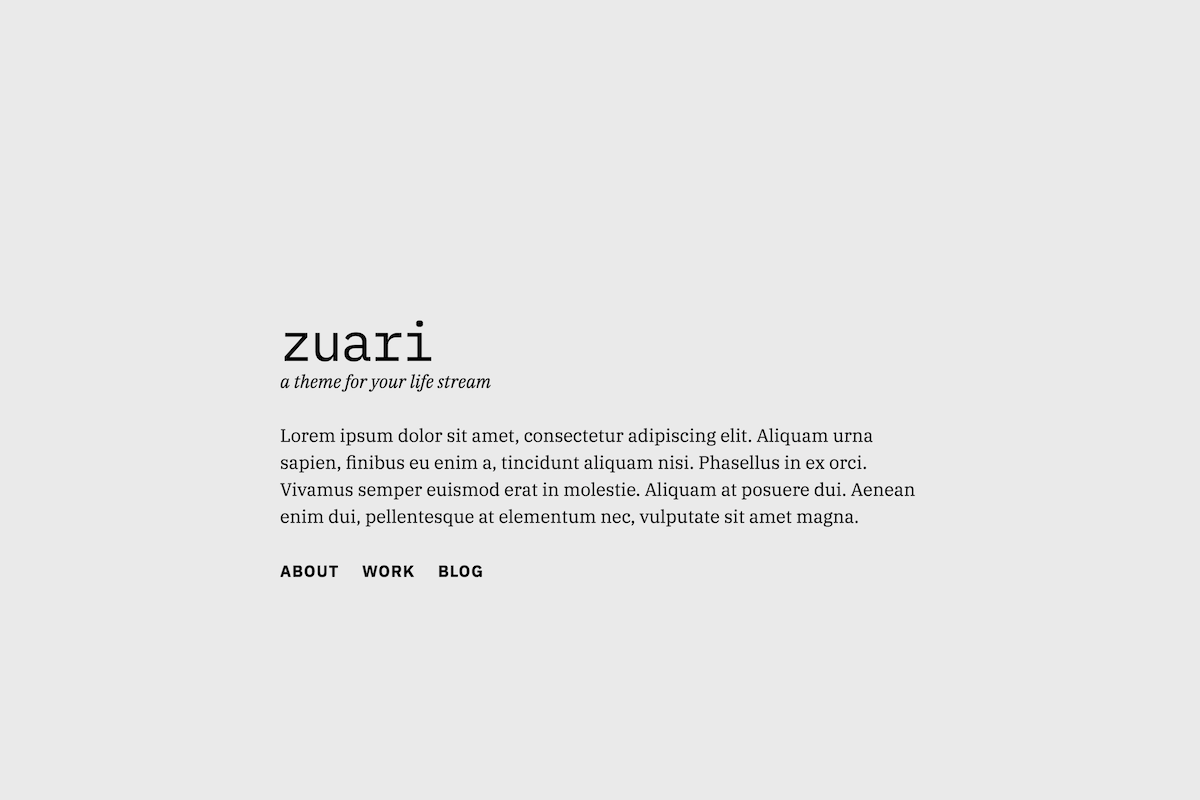
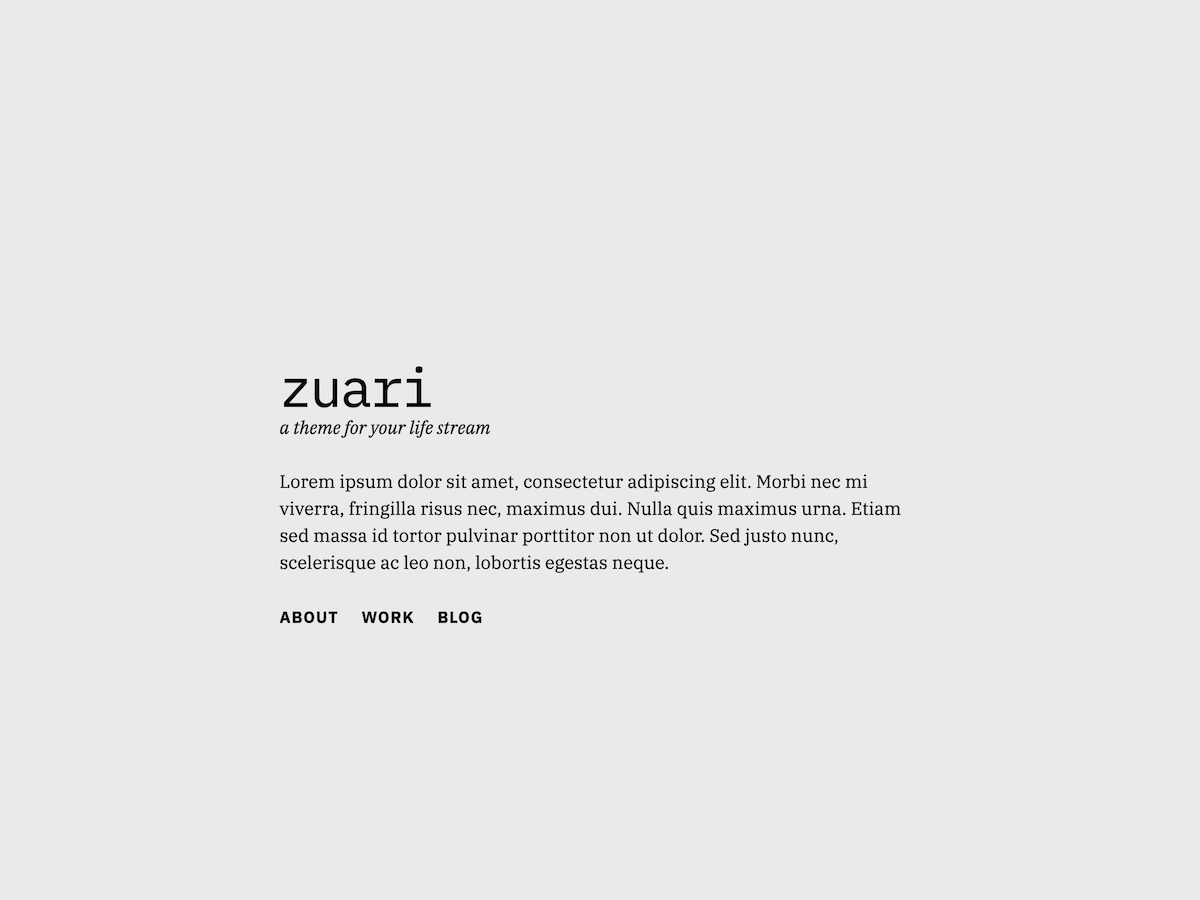
fix: changes after review
Changes after @rabmalin's review
https://themes.trac.wordpress.org/ticket/69425#comment:9

* Updated screenshot size
* Removed
** languages directory
** layout directory
** rtl.css
* Updated readme.txt to include PHP version
* Moved wp_body_open back-compat to functions.php

Also bumped the version number.

Changed region(s): [[0.2158, 0.5312, 0.7708, 0.7188], [0.2158, 0.4062, 0.4008, 0.5]]

diff --git a/style.scss b/style.scss
@@ -4,7 +4,7 @@ Theme URI: https://github.com/prtksxna/zuari
 Author: Prateek Saxena
 Author URI: http://prtksxna.com
 Description: A stream of your life
-Version: 1.0.0
+Version: 1.0.1
 License: GNU General Public License v2 or later
 License URI: LICENSE
 Text Domain: zuari

diff --git a/functions.php b/functions.php
@@ -171,6 +171,15 @@ function zuari_scripts() {
 add_action( 'wp_enqueue_scripts', 'zuari_scripts' );
 
 /**
+ * wp_body_open back-compat
+ */
+if ( ! function_exists( 'wp_body_open' ) ) {
+	function wp_body_open() {
+		do_action( 'wp_body_open' );
+	}
+}
+
+/**
  * Implement the Custom Header feature.
  */
 require get_template_directory() . '/inc/custom-header.php';

diff --git a/header.php b/header.php
@@ -21,12 +21,8 @@
 </head>
 
 <body <?php body_class(); ?>>
-<?php
-if ( ! function_exists( 'wp_body_open' ) ) {
-	function wp_body_open() {
-		do_action( 'wp_body_open' );
-	}
-}?>
+<?php wp_body_open(); ?>
+
 <div id="page" class="site">
 	<a class="skip-link screen-reader-text" href="#content"><?php esc_html_e( 'Skip to content', 'zuari' ); ?></a>
 
